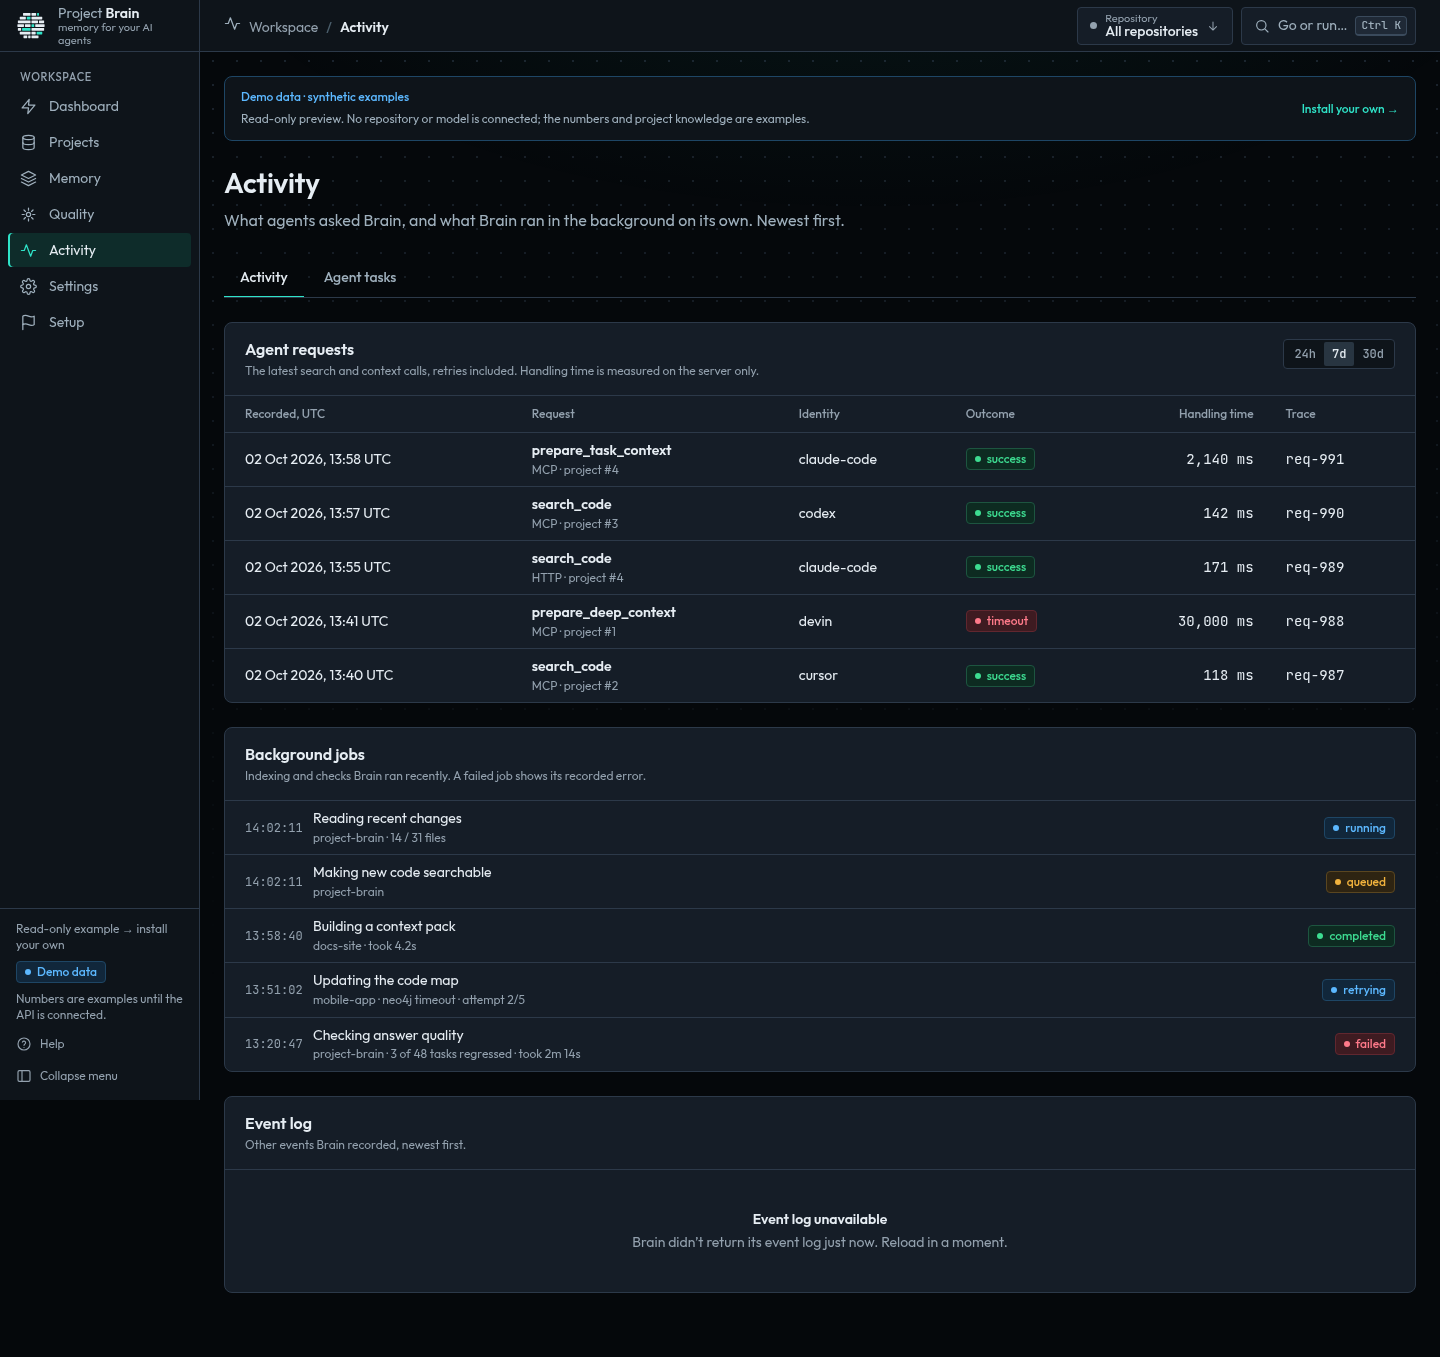
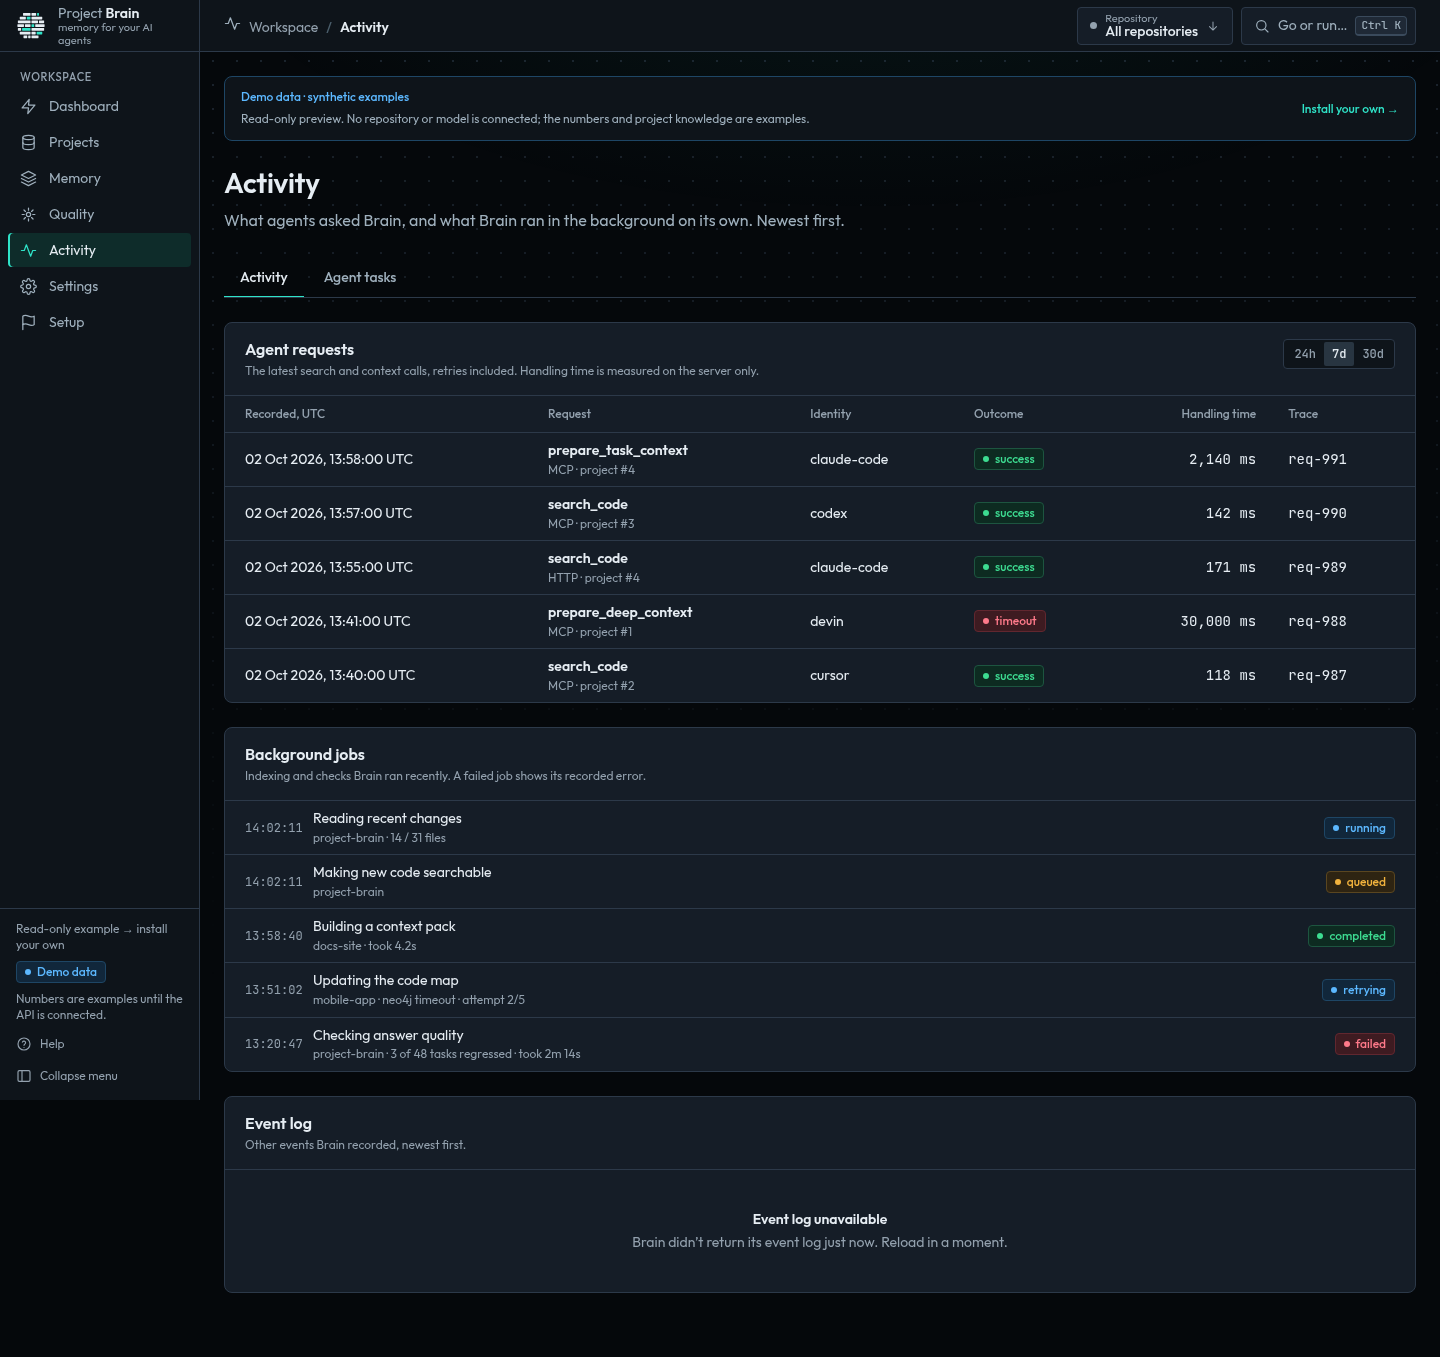
docs: refresh PR A screenshots after review corrections

diff --git a/docs/evidence/dashboard-polish-2026-10/pr-a/README.md b/docs/evidence/dashboard-polish-2026-10/pr-a/README.md
@@ -2,7 +2,7 @@
 
 These screenshots show the public **synthetic demo**, not the private live dashboard or Contabo API. Private live access returns HTTP 401; its preview requires Vercel SSO. This evidence cannot establish live backend deployment or latency.
 
-Before: `f5e39f569a6765f1e6ab29089df3da27a00c461b` (UI identical to merged #183). After: `34340d49408368ee7d4f6e80df7d66b48d087b8c` (#185). The manifests record exact preview URLs, headings and titles. Captured at 1440 × 1100 with reduced motion and no interactions that mutate data. The browser ignored certificate errors for this session because Chromium does not trust the execution environment's HTTPS proxy CA; curl verified these public endpoints with its normal trust store.
+Before: `f5e39f569a6765f1e6ab29089df3da27a00c461b` (UI identical to merged #183). After: `5a61c5bf49b8a1b8343018b94ca2a77f9501b9b7` (#185). The manifests record exact preview URLs, headings and titles. Captured at 1440 × 1100 with reduced motion and no interactions that mutate data. The browser ignored certificate errors for this session because Chromium does not trust the execution environment's HTTPS proxy CA; curl verified these public endpoints with its normal trust store.
 
 | Screen | Before | After |
 | --- | --- | --- |
